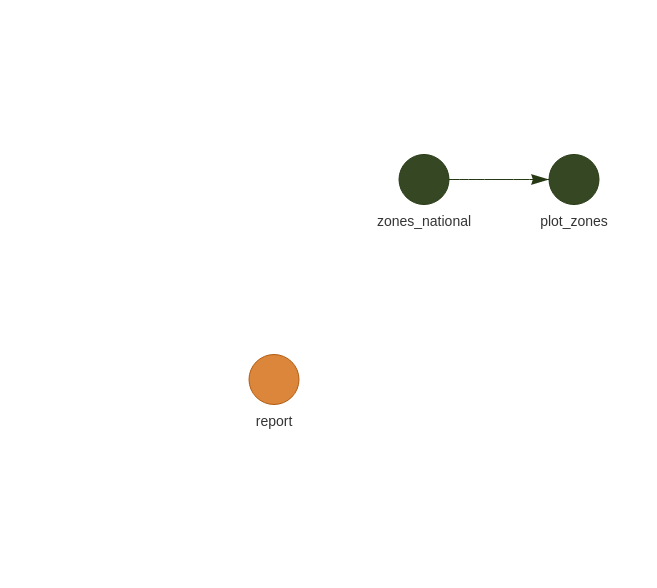
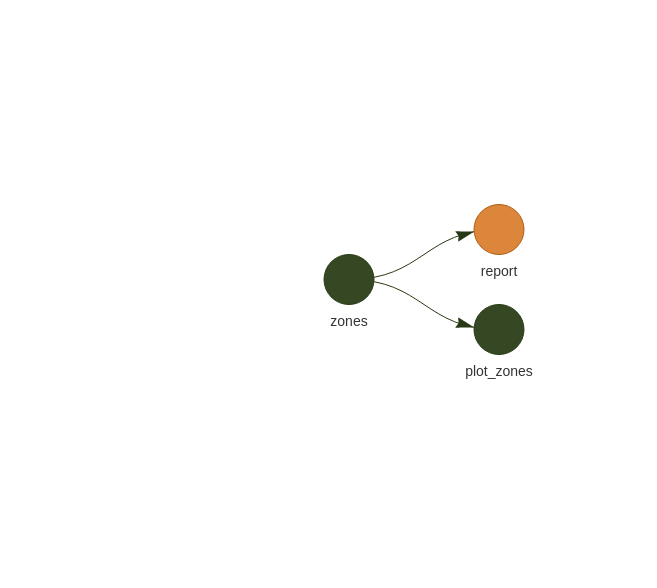
Tidy up targets workflow

diff --git a/README.md b/README.md
@@ -17,17 +17,18 @@ Visualise the project as follows:
 
 ``` r
 targets::tar_visnetwork(targets_only = TRUE)
-#> [31m── Attaching packages ─────────────────────────────────────── tidyverse 1.3.1 ──
-#> [39m[31m✔ ggplot2 3.4.0      ✔ purrr   0.3.5 
+#> ── Attaching packages ─────────────────────────────────────── tidyverse 1.3.1 ──
+#> ✔ ggplot2 3.4.0      ✔ purrr   0.3.5 
 #> ✔ tibble  3.1.8      ✔ dplyr   1.0.10
 #> ✔ tidyr   1.2.1      ✔ stringr 1.4.1 
 #> ✔ readr   2.1.3      ✔ forcats 0.5.2 
-#> [39m[31m── Conflicts ────────────────────────────────────────── tidyverse_conflicts() ──
+#> ── Conflicts ────────────────────────────────────────── tidyverse_conflicts() ──
 #> ✖ dplyr::filter() masks stats::filter()
 #> ✖ dplyr::lag()    masks stats::lag()
-#> [39m
 ```
 
 ![](README_files/figure-gfm/visnet-1.png)<!-- -->
 
-![](figures/test-plot.png)<!-- -->
+The zones in the case study region are as follows:
+
+![](README_files/figure-gfm/zones-1.png)<!-- -->
